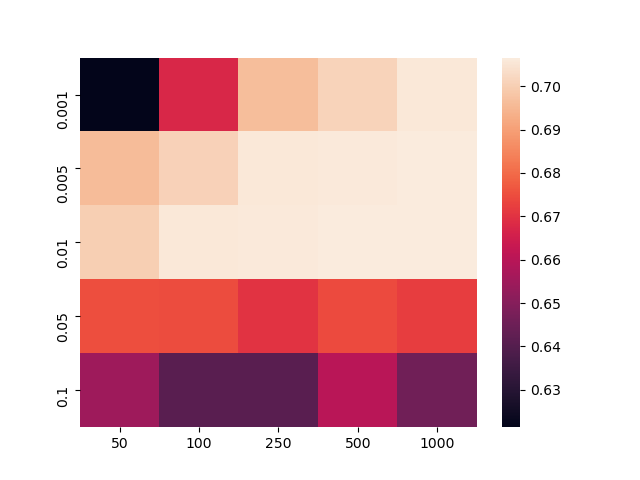
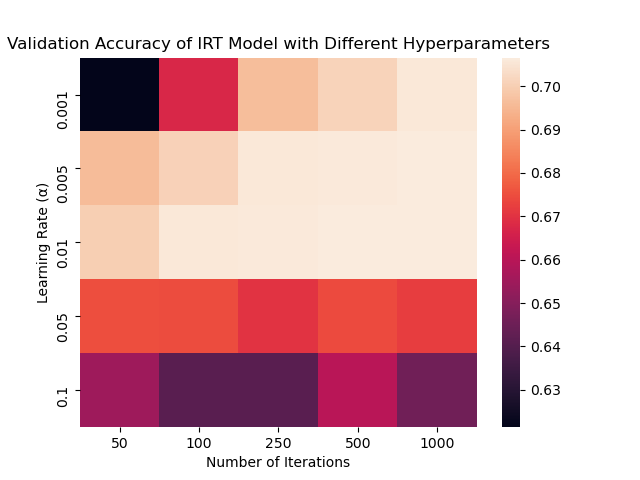
Added axis labels to heatmap, saved heatmap data to csv file so I don't have to retrain every time I want to change something small in the plot, created avg log likelihood plot

Changed region(s): [[0.0, 0.0625, 0.8438, 0.125], [0.3125, 0.9375, 0.5625, 0.9688], [0.0625, 0.375, 0.0938, 0.625]]

diff --git a/final_project/starter_code/part_a/item_response.py b/final_project/starter_code/part_a/item_response.py
@@ -99,16 +99,14 @@ def update_theta_beta(data, lr, theta, beta):
     
     # Update theta
     lklihoods = likelihoods(data, theta, beta)
-    # Subtract lklihoods from targets
+    # Subtract likelihoods from targets
     partials = np.array(data['is_correct']) - lklihoods
     # Group by i (user_id) and sum
     theta = theta + lr * np.bincount(data['user_id'], weights=partials)
 
-    # are more steps needed here?
-
-    # Update beta using new theta?
+    # Update beta using new theta
     lklihoods = likelihoods(data, theta, beta)
-    # Subtract targets from lklihoods
+    # Subtract targets from likelihoods
     partials = lklihoods - np.array(data['is_correct'])
     # Group by j (question_id) and sum
     beta = beta + lr * np.bincount(data['question_id'], weights=partials)
@@ -189,7 +187,7 @@ def main():
     # code, report the validation and test accuracy.                    #
     #####################################################################
     
-    tuning_hyperparams = False
+    tuning_hyperparams = True
 
     if tuning_hyperparams:
         # Use gridsearch to tune hyperparams
@@ -207,10 +205,14 @@ def main():
                 final_betas.append(beta)
                 final_val_acc.append(performance['val_acc_lst'][-1])
 
+        np.savetxt('IRT_gridsearch_val_accuracies.csv', np.array(final_val_acc), delimiter=",")
         # Plot heatmap of accuracy
-        g = sns.heatmap(np.array(final_val_acc).reshape(5,5))
-        g.set_xticklabels(iterations)
-        g.set_yticklabels(lrs)
+        hmap = sns.heatmap(np.array(final_val_acc).reshape(5,5), xticklabels=iterations, yticklabels=lrs)
+        plt.xlabel('Number of Iterations')
+        plt.ylabel('Learning Rate (α)')
+        plt.title('Validation Accuracy of IRT Model with Different Hyperparameters')
+        #g.set_xticklabels(iterations)
+        #g.set_yticklabels(lrs)
         plt.savefig('irt_gridsearch.png')
         plt.show()
 
@@ -220,11 +222,11 @@ def main():
         print(f'Optimal hyperparameters: {best_lr} learning rate with {best_iter} iterations')
 
     else:
-        #Optimal hyperparameters: 0.01 learning rate with 500 iterations
+        # Optimal hyperparameters: 0.01 learning rate with 500 iterations
         best_lr = 0.01
         best_iter = 500
 
-    # Report NLLK vs. iteration for both training and validation sets
+    # Report LLK vs. iteration for both training and validation sets
     print('Training optimal model...')
     theta, beta, performance = irt(train_data, val_data, best_lr, best_iter)
     plt.plot(np.arange(best_iter), -np.array(performance['train_NLLK']), color='blue', label='Training LLK')
@@ -238,14 +240,39 @@ def main():
 
     plt.savefig('llk_graph.png')
     plt.show()
-    #TODO - I feel like it would make more sense to plot avg log likelihood
 
+    # Plot average log-likelihood vs. iteration for training & validation sets
+    avg_train_LLK = -np.array(performance['train_NLLK']) / len(train_data['user_id'])
+    avg_val_LLK = -np.array(performance['val_NLLK']) / len(val_data['user_id'])
+    plt.plot(np.arange(best_iter), avg_train_LLK, color='blue', label='Average Training LLK')
+    plt.plot(np.arange(best_iter), avg_val_LLK, color='orange', label='Average Validation LLK')  
+
+    plt.xlabel('Number of Iterations (t)')
+    plt.ylabel('Average Log-Likelihood')
+    plt.legend(loc='lower right')
+    plt.title(
+        'Average Log-Likelihood of Training & Validation\nSets using Item Response Theory Model')
+
+    plt.savefig('avg_llk_graph.png')
+    plt.show()    
+
+    #####################################################################
+    #                       END OF YOUR CODE                            #
+    #####################################################################
+
+    #####################################################################
+    # TODO:                                                             #
+    # Implement part (c)                                                #
+    #####################################################################
     # Report final validation and test accuracies
     val_acc = evaluate(val_data, theta, beta)
     test_acc = evaluate(test_data, theta, beta)
     print(f'Final Validation Accuracy: {val_acc}')
     print(f'Final Test Accuracy: {test_acc}')
+    # Final Validation Accuracy: 0.7066045723962744
+    # Final Test Accuracy: 0.7098504092576913
 
+    # Implement part (d)
     # Plot five question as a function of theta
     theta = np.sort(theta)
     plt.plot(np.arange(len(theta)), sigmoid(theta - beta[0]), color='red', label='j1')
@@ -262,21 +289,11 @@ def main():
 
     plt.savefig('5q_prob_plot.png')
     plt.show()
-    
-
-    #####################################################################
-    #                       END OF YOUR CODE                            #
-    #####################################################################
-
-    #####################################################################
-    # TODO:                                                             #
-    # Implement part (c)                                                #
-    #####################################################################
-    pass
     #####################################################################
     #                       END OF YOUR CODE                            #
     #####################################################################
 
 
 if __name__ == "__main__":
-    main()
+    #main()
+    pass #for now while i figure out imports
